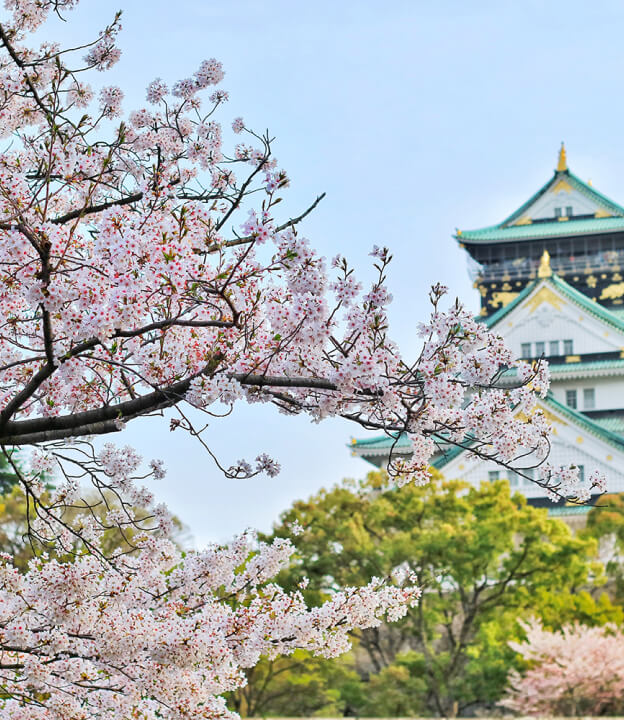
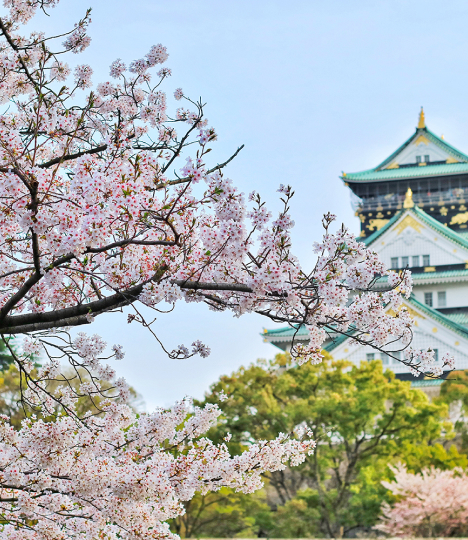
fix: corrige o bug na section category

diff --git a/index.html b/index.html
@@ -139,25 +139,25 @@
 
         <div class="caregory-cards">
 
-          <article class="card">
-            <img src="../assets/img/icone-pacotes-nacionais.png" alt="imagem de uma pesoa viajando simbolizando 'pacotes nacionais'" />
+          <a class="card" href="#" target="_blank" title="Busque pela categoria Pacotes Nacionais">
+            <img src="../assets/img/icone-pacotes-nacionais.png" alt="icone de uma pessoa viajando" />
             <h3>Pacotes Nacionais</h3>
-          </article>
+          </a>
 
-          <article class="card" >
-            <img src="../assets/img/icone-pacotes-internacionais.png" alt="imagem de um avião simbolizando 'pacotes internacionais'" />
+          <a class="card" href="#" target="_blank" title="Busque pela categoria Pacotes Internacionais" >
+            <img src="../assets/img/icone-pacotes-internacionais.png" alt="icone de um avião" />
             <h3>Pacotes Internacionais</h3>
-          </article class="card">
+          </a class="card">
 
-          <article class="card">
-            <img src="../assets/img/icone-transfer.png" alt="imagem de um planeta com um cateado simbolizando'transfer'" />
+          <a class="card" href="#" target="_blank" title="Busque pela categoria Pacotes Transfer" >
+            <img src="../assets/img/icone-transfer.png" alt="icone de um carro" />
             <h3>Transfer</h3>
-          </article>
+          </a>
 
-          <article class="card">
-            <img src="../assets/img/icone-seguro-viagem.png" alt="imagem de um planeta com um cateado simbolizando 'viagem segura'" />
+          <a class="card" href="#" target="_blank" title="Busque pela categoria Pacotes Seguro Viagem" >
+            <img src="../assets/img/icone-seguro-viagem.png" alt="icone de um planeta com um cateado'" />
             <h3>Seguro Viagem</h3>
-          </article>
+          </a>
 
         </div>
 
@@ -172,17 +172,17 @@
         <div class="cards-destination">
 
           <article>
-            <img src="" alt="">
-            <h3></h3>
-            <p></p>
-            <a href=""></a>
+            <img src="/assets/img/destination-mobile-tokyo.jpg" alt="imagem mostrando a cidade de tokyo">
+            <h3>Tokyo</h3>
+            <p>Tokyo é uma cidade vibrante e cosmopolita, com seus templos históricos, museus de arte moderna e arranha-céus icônicos. Não perca a chance de mergulhar em sua atmosfera fascinante.</p>
+            <a class="button" href="#" target="_blank" title="ver detalhes sobre tokyo">Ver detalhes</a>
           </article>
           
           <article>
-            <img src="" alt="">
-            <h3></h3>
-            <p></p>
-            <a href=""></a>
+            <img src="/assets/img/destination-mobile-osaka.jpg" alt="imagem uma região de osaka">
+            <h3>Osaka</h3>
+            <p>Osaka é uma cidade agitada e moderna no Japãos. A cidade é famosa por sua gastronomia deliciosa e por ser um excelente ponto de partida para explorar outras cidades japonesas próximas.</p>
+            <a class="button" href="#" target="_blank" title="ver detalhes sobre osaka">Ver detalhes</a>
           </article>
 
         </div>

diff --git a/style/category.css b/style/category.css
@@ -6,7 +6,6 @@
   flex-direction: column;
   align-items: center;
   row-gap: 7vw;
-
 }
 .caregory-cards .card {
   color: var(--text-primary-color);
@@ -19,7 +18,7 @@
   align-items: center;
   gap: 7vw;
   background-color: var(--background-secondary-color);
-  padding: 11vw 7vw;
+  padding: 8vw 0vw;
   img {
     height: 62px;
   }
@@ -38,23 +37,23 @@
   .caregory-cards .card {
     font-size: 3vw;
     gap: 4.5vw;
-    padding: 4vw 5vw;
+    padding: 0vw 0vw;
     width: 40%;
-    height: 30vw;
+    height: 26vw;
   }
 }
 
 @media (min-width: 1020px) {
   .caregory-cards {
     gap: 2vw;
-    height: 18vw;
+    height: 22vw;
   }
   .caregory-cards .card {
     font-size: 1.5vw;
     gap: 2vw;
-    padding: 2vw 0.8vw;
-    width: 15.3%;
-    height: 15vw;
+    padding: 1vw 0.8vw;
+    width: 13.8%;
+    height: 11vw;
     img {
       height: 3.8vw;
     }

diff --git a/style/global.css b/style/global.css
@@ -47,7 +47,7 @@ body {
       font-weight: var(--titles-weight);
       text-align: center;
       margin-top: 13vw;
-      padding: 0px 8vw;
+      padding: 0px 9vw;
     }
     hr {
       width: 50vw;

diff --git a/style/style.css b/style/style.css
@@ -4,6 +4,7 @@
 @import url(hero.css);
 @import url(offers.css);
 @import url(category.css);
+@import url(destination.css);
 
 
 
